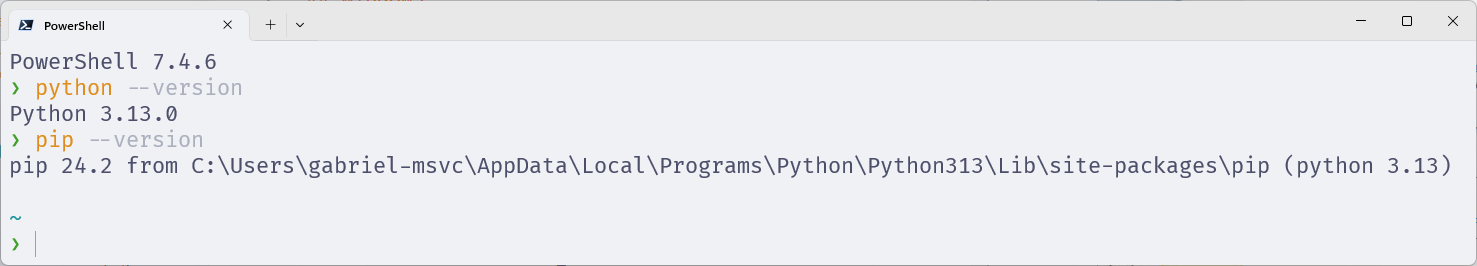
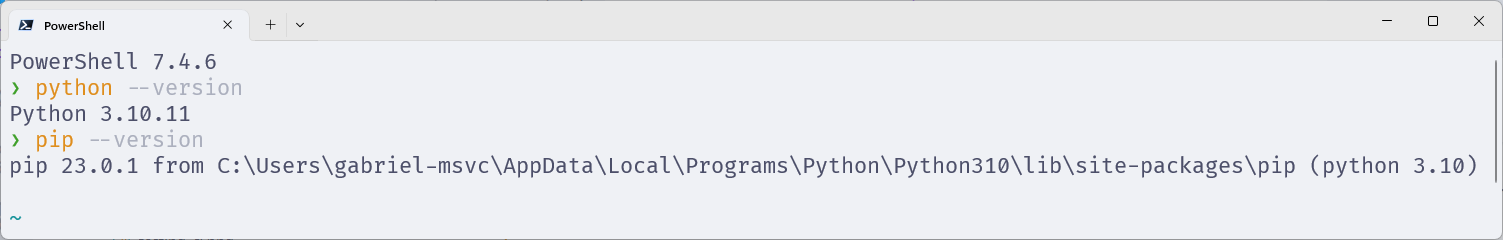
Install LLVM and LLDB on Windows

diff --git a/src/chapters/c_cpp/compiler/index.md b/src/chapters/c_cpp/compiler/index.md
@@ -19,6 +19,10 @@ Neste livro, vamos utilizar o **Clang** como compilador padrão para C e C++.
 Sua instalação varia de acordo com o sistema operacional.
 Vamos tratar separadamente a instalação no **Linux** (e **WSL**) e no **Windows**.
 
+## Linux
+
+<!-- TODO -->
+
 ## Windows
 
 O **Microsoft Visual Studio** (MSVC) é uma IDE popular para desenvolvimento em C e C++ no Windows.
@@ -52,6 +56,10 @@ No menu lateral na esquerda, selecione as seguintes opções:
 - Ferramentas do CMake do C++ para Windows
 - Recursos principais de ferramentas de teste --- Ferramentas de Build
 - AddressSanitizer do C++
+- ATL do C++ para as mais recentes ferramentas do build v143 (x86 e x64)
+- MFC do C++ para as mais recentes ferramentas do build v143 (x86 e x64)
+- Suporte do C++/CLI para as ferramentas do build v143 (Mais recente)
+- Módulos do C++ para as ferramentas do build v143 (x86 e x64, experimental)
 
 <figure>
 <img src="installing_msvc.png" />
@@ -80,7 +88,7 @@ Abra uma sessão nele e execute o comando `cl` para verificar se o compilador **
 <figcaption>Testando se a instalação do MSVC foi bem-sucedida.</figcaption>
 </figure>
 
-## Configurações do perfil
+### Configurações do perfil
 
 É interessante trocar a pasta inicial desse perfil para a pasta do seu usuário.
 Acesse as configurações do perfil **Developer PowerShell for VS 2022**.
@@ -105,7 +113,7 @@ Para utilizar o **PowerShell 7**, altere **apenas** este primeiro termo para `pw
 
 Então, **salve** as configurações.
 
-## Configuração do terminal
+### Configuração do terminal
 
 Você pode também definir esse perfil como padrão, para que ele seja aberto automaticamente ao iniciar o Windows Terminal.
 
@@ -136,3 +144,11 @@ Para testar se a configuração foi bem-sucedida, abra o terminal integrado do V
 <img src="./opening_code.png" />
 <figcaption>Abrindo o Visual Studio Code a partir do Windows Terminal, e executando o comando "cl" no terminal integrado.</figcaption>
 </figure>
+
+### Considerações
+
+A instalação do **MSVC** utiliza o **Clang** como parte do seu conjunto de ferramentas.
+Na verdade, o comando `cl` não é exatamente o compilador Clang, mas sim um wrapper que o chama.
+
+Se você precisar do compilador Clang puro, você pode instalá-lo separadamente, junto com outras ferramentas do LLVM.
+faremos isso no subcapítulo sobre o [depurador LLDB](/src/chapters/c_cpp/debugger/index.md).

diff --git a/src/chapters/c_cpp/debugger/index.md b/src/chapters/c_cpp/debugger/index.md
@@ -14,9 +14,45 @@ Então percebemos que, para o depurador funcionar, ele deve ser compatível com 
 Uma vez que estamos utilizando o compilador **Clang**, escolheremos o depurador [**LLDB**](https://lldb.llvm.org/) (LLVM Debugger), que também é parte do projeto LLVM.
 
 O LLDB depende de ter instalado o Python.
-Em sistemas Linux (incluindo WSL), o Python já vem instalado.
-Já para o Windows, leia o capítulo [Python](/src/chapters/python/index.md).
+Em sistemas Linux (incluindo WSL), ao fazer a instalação do LLDB, todas as dependências são resolvidas e instaladas.
+Já para o Windows, cada dependência deve ser manualmente instalada previamente.
+
+## Linux
+
+<!-- TODO -->
 
 ## Windows
 
-![alt text](image.png)
+Para instalar o **LLDB** no Windows, é necessário ter instalado o **Python 3.10**.
+Leia o capítulo sobre a linguagem [**Python**](/src/chapters/python/index.md) para saber como instalá-la.
+
+### LLVM
+
+Instalar o LLVM no Windows é um pouco mais complicado do que no Linux.
+A forma mais fácil de fazê-lo é baixar o instalador do projeto **LLVM** do [repositório oficial](https://github.com/llvm/llvm-project).
+
+A fim de evitar problemas de compatibilidade de versões, recomendo instalar a versão mais recente na data de escrita deste livro.
+Assim, eu lhes garanto que o processo de instalação funcionará com o Python 3.10.
+
+Acesse a página de [**downloads do LLVM**](https://github.com/llvm/llvm-project/releases/tag/llvmorg-19.1.2) na versão 19.1.2 e baixe o arquivo `LLVM-19.1.2-win64.exe`.
+
+<figure>
+<img src="./llvm_download_options.png" />
+<figcaption>Opções de download do LLVM.</figcaption>
+</figure>
+
+Então, execute o instalador e siga as instruções.
+Na página **Install Options**, selecione a opção **Add LLVM to the system PATH for all users**.
+Então prossiga com a instalação.
+
+<figure>
+<img src="./installing_llvm.png" />
+<figcaption>Instalador do LLVM na página "Install Options".</figcaption>
+</figure>
+
+Para verificar se a instalação foi bem-sucedida, abra uma nova instância do PowerShell e execute o comando `lldb --version`.
+
+<figure>
+<img src="./testing_installation.png" />
+<figcaption>Verificando se a instalação do LLVM foi bem-sucedida.</figcaption>
+</figure>

diff --git a/src/chapters/c_cpp/cmake/install/index.md b/src/chapters/c_cpp/cmake/install/index.md
@@ -1,0 +1,52 @@
+# Instalação
+
+A instalação do **CMake** é simples e pode ser feita de várias formas, dependendo do sistema operacional.
+
+Vamos também instalar o **Ninja**, um gerador de build que é mais rápido que o **Make**.
+
+## Linux
+
+<!-- TODO -->
+
+## Windows
+
+Para instalar o **CMake** no Windows, acesse a página de [downloads](https://cmake.org/download/) do CMake.
+
+Então, selecione a opção do instalador para Windows x64 mais recente.
+
+<figure>
+<img src="./download_options.png" />
+<figcaption>Opções de download do CMake.</figcaption>
+</figure>
+
+Execute o instalador e siga as instruções.
+Na página **Install Options**, selecione a opção **Add CMake to the PATH environment variable**.
+Então prossiga com a instalação.
+
+<figure>
+<img src="./installing_windows.png" />
+<figcaption>Instalando o CMake no Windows.</figcaption>
+</figure>
+
+Para verificar se a instalação foi bem-sucedida, abra o PowerShell e execute o comando `cmake`.
+
+<figure>
+<img src="./checking_installation_windows.png" />
+<figcaption>Verificando se a instalação do CMake no Windows foi bem-sucedida.</figcaption>
+</figure>
+
+### Ninja
+
+Para instalar o **Ninja**, acesse a página de [downloads](https://github.com/ninja-build/ninja/releases).
+
+Selecione a opção para Windows na versão mais recente, marcada como **latest**.
+
+<figure>
+<img src="./ninja_download_options.png" />
+<figcaption>Opções de download do Ninja.</figcaption>
+</figure>
+
+Extraia o arquivo Zip baixado.
+Então rode o executável `ninja.exe`.
+
+<!-- TODO: continuar -->

diff --git a/src/chapters/python/install/index.md b/src/chapters/python/install/index.md
@@ -9,33 +9,21 @@ Já no Windows, é necessário instalar o Python manualmente.
 
 ## Windows
 
-Para instalar o Python no Windows, acesse a página de [downloads](https://www.python.org/downloads/windows/) e baixe a versão mais recente.
+Para instalar o Python no Windows, podemos utilizar a ferramenta [**Winget**](https://winget.run/pkg/Python/Python.3.10).
 
-Se seu computador for de 64 bits (e muito provavelmente é, a não ser que seja realmente **muito** velho), baixe a versão de 64 bits.
-Caso contrário, baixe a versão de 32 bits.
+Por motivos de compatibilidade com o **LLVM**, é recomendado instalar a versão 3.10.
+Abra o **Powershell** como **administrador** e execute o comando:
 
-Execute o instalador.
-Na primeira tela, marque as opções:
-
-- Use admin privileges when installing py.exe.
-- Add Python to PATH.
-
-Então, clique em **Install Now**.
+```powershell
+winget install -e --id Python.Python.3.10
+```
 
 <figure>
-<img src="./installer.png" />
+<img src="./installing.png" />
 <figcaption>Instalação do Python para Windows.</figcaption>
 </figure>
 
-Aguarde a instalação terminar.
-Então, clique em **Close**.
-
-<figure>
-<img src="./finish_installation.png" />
-<figcaption>Finalizar instalação do Python para Windows.</figcaption>
-</figure>
-
-Para verificar se a instalação foi bem-sucedida, abra o **Powershell** e digite os comandos:
+Para verificar se a instalação foi bem-sucedida, **feche** e abra o **Powershell** novamente, então digite os comandos:
 
 ```bash
 python --version

diff --git a/src/chapters/c_cpp/cmake/index.md b/src/chapters/c_cpp/cmake/index.md
@@ -1,0 +1,7 @@
+# CMake
+
+O **CMake** é uma ferramenta de código aberto que permite a geração de arquivos de configuração de compilação de forma independente do sistema operacional e do compilador.
+
+Ele é muito útil quando se tem um projeto grande e complexo, com muitos arquivos de código-fonte e dependências.
+
+Aprenderemos a instalá-lo, a utilizá-lo para configurar e compilar projetos em C e C++, e a integrá-lo com o VSCode.
